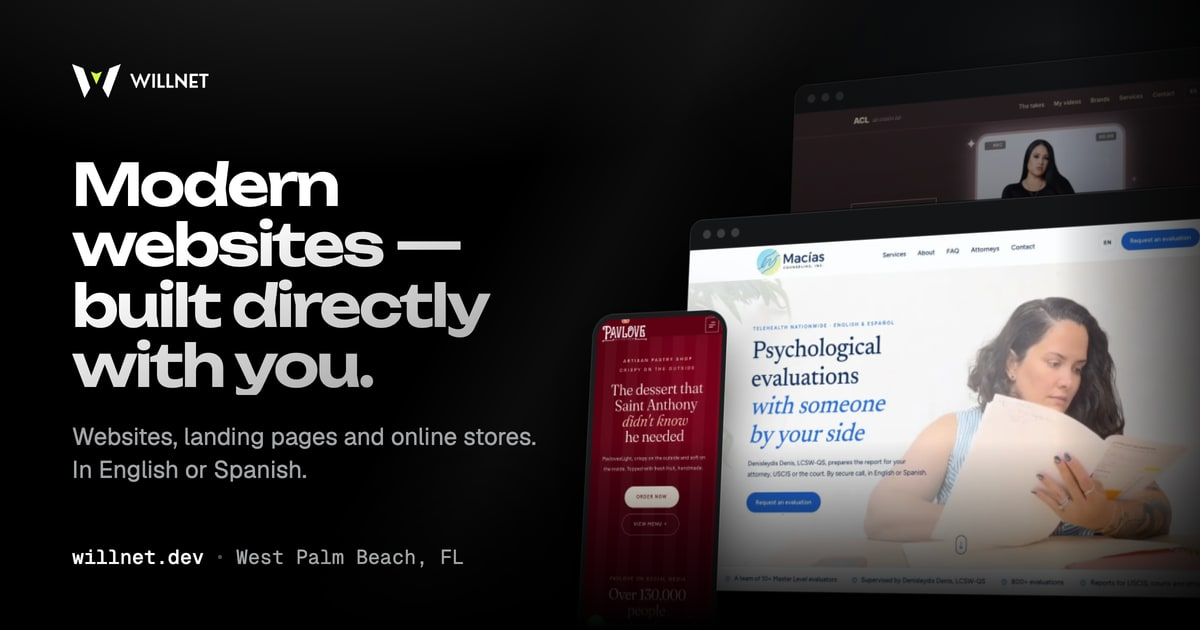
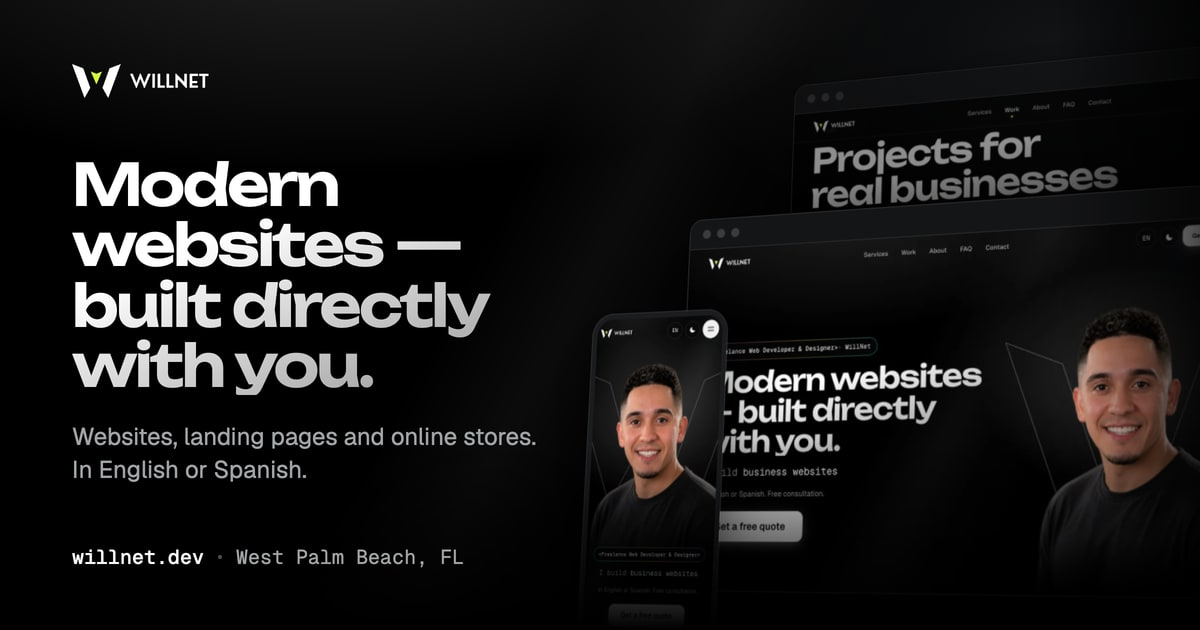
Imagen para compartir: la escena inclinada muestra willnet.dev (elegida por Willder entre 4 propuestas)
Work detrás, el inicio delante y en el teléfono, en EN y ES (capturas de producción en tema oscuro en
scripts/og/capturas/). Texto alternativo y README actualizados.

diff --git a/scripts/og/plantilla.html b/scripts/og/plantilla.html
@@ -1,9 +1,12 @@
 <!doctype html>
 <!--
   Imagen para compartir el enlace (Open Graph, 1200 × 630). No es una captura del hero: es una pieza propia
-  con el estilo Resend de la web (negro, luz desde arriba, título con degradado) y capturas de proyectos reales.
-  Se abre con ?lang=en o ?lang=es. La genera scripts/og-image.mjs → public/og-willnet-en.jpg y -es.jpg
-  (2026-11-18, pedido de Willder: la anterior era una captura vieja del hero con la paleta lima).
+  con el estilo Resend de la web (negro, luz desde arriba, título con degradado) y la propia willnet.dev en la
+  escena inclinada (inicio, Work y el inicio en el teléfono; capturas en scripts/og/capturas/, tomadas de producción
+  en tema oscuro y sin botones flotantes; si la web cambia mucho, se vuelven a sacar).
+  Se abre con ?lang=en o ?lang=es. La genera captura-og.mjs --plantilla (skill sitio-web-willnet) → public/og-willnet-en.jpg y -es.jpg
+  (2026-11-18, pedido de Willder: la anterior era una captura vieja del hero con la paleta lima; eligió esta
+  composición entre 4 propuestas y pidió que la escena mostrara willnet.dev).
 -->
 <html>
   <head>
@@ -107,7 +110,7 @@
         border-radius: 50%;
         background: #4b4e50;
       }
-      /* Los proyectos: un navegador detrás, otro delante y un teléfono, con la misma inclinación */
+      /* willnet.dev: Work detrás, el inicio delante y en el teléfono, con la misma inclinación */
       .stage {
         position: absolute;
         left: 650px;
@@ -221,20 +224,20 @@
           h1: "Modern websites — built directly with you.",
           sub: "Websites, landing pages and online stores. In English or Spanish.",
           place: "West Palm Beach, FL",
-          img: { back: "acl-en", front: "web-macias-en", phone: "pavlove-movil-en" },
+          img: { back: "willnet-work-en", front: "willnet-inicio-en", phone: "willnet-inicio-movil-en" },
         },
         es: {
           h1: "Webs modernas, hechas directamente contigo.",
           sub: "Sitios web, landing pages y tiendas online. En español o inglés.",
           place: "West Palm Beach, FL",
-          img: { back: "acl", front: "web-macias", phone: "pavlove-movil" },
+          img: { back: "willnet-work-es", front: "willnet-inicio-es", phone: "willnet-inicio-movil-es" },
         },
       };
       const lang = new URLSearchParams(location.search).get("lang") === "es" ? "es" : "en";
       const t = T[lang];
       document.documentElement.lang = lang;
       document.querySelectorAll("[data-t]").forEach((el) => (el.textContent = t[el.dataset.t]));
-      document.querySelectorAll("[data-img]").forEach((el) => (el.src = `../../public/img/work/${t.img[el.dataset.img]}.webp`));
+      document.querySelectorAll("[data-img]").forEach((el) => (el.src = `capturas/${t.img[el.dataset.img]}.webp`));
     </script>
   </body>
 </html>

diff --git a/src/i18n/ui.ts b/src/i18n/ui.ts
@@ -59,7 +59,7 @@ export const socials = [
 
 const en = {
   meta: {
-    ogAlt: "WillNet: modern websites, built directly with you. Screens of websites made for clients: Macías Counseling, Pavlove and ACL.",
+    ogAlt: "WillNet: modern websites, built directly with you. Screens of the willnet.dev website on a laptop and a phone.",
     siteDescription:
       "WillNet builds modern websites, landing pages and online stores for small businesses across the US and Latin America. Direct work with the developer, in English or Spanish. Free consultation.",
   },
@@ -346,7 +346,7 @@ const en = {
 
 const es: typeof en = {
   meta: {
-    ogAlt: "WillNet: webs modernas, hechas directamente contigo. Pantallas de webs hechas para clientes: Macías Counseling, Pavlove y ACL.",
+    ogAlt: "WillNet: webs modernas, hechas directamente contigo. Pantallas de la web willnet.dev en computadora y teléfono.",
     siteDescription:
       "WillNet crea páginas web modernas, landing pages y tiendas en línea para negocios en EE. UU. y Latinoamérica. Trato directo con el desarrollador, en inglés o español. Consulta gratis.",
   },

diff --git a/README.md b/README.md
@@ -75,7 +75,7 @@ Revisa los tipos de TypeScript y Astro.
 | Teléfono, correos, WhatsApp, redes | `site` al inicio de `src/i18n/ui.ts`. Correos por contexto: `email` (contact@: Contacto, menú, «Let's work together», Privacidad), `infoEmail` y `supportEmail` (pie; support@ también en Mantenimiento). |
 | Colores, tipografías, botones | `src/styles/global.css` (tokens en `:root` y `[data-theme="light"]`). Los colores del escenario final (bloque «Let's work together» y pie, en gris carbón) están al final del archivo, en `.stage`. |
 | Rutas en español (`/es/servicios`, etc.) | `src/i18n/routes.ts`. |
-| Imagen al compartir el enlace | `public/og-en.jpg` y `public/og-es.jpg` (1200×630, captura del hero). Si cambia el hero, hay que volver a capturarlas. |
+| Imagen al compartir el enlace | `public/og-willnet-en.jpg` y `-es.jpg` (1200×630), hechas con la plantilla `scripts/og/plantilla.html` (no es una captura del hero; la escena inclinada muestra willnet.dev con las capturas de `scripts/og/capturas/`, sacadas de producción en tema oscuro: si la web cambia mucho, se vuelven a sacar). Para cambiarla: editar la plantilla (textos e imágenes por idioma al final) y correr `node ~/.claude/skills/sitio-web-willnet/scripts/captura-og.mjs --plantilla scripts/og/plantilla.html public --nombre og-willnet`. Si el diseño cambia mucho, usar otro `--nombre` y cambiarlo en `src/layouts/Base.astro`: las redes guardan la imagen por URL. |
 | Ícono del navegador | `public/favicon.svg`; los PNG (`favicon-32x32.png`, `apple-touch-icon.png`, `icon-512.png`) se generan a partir de él con sharp. |
 | Redirecciones (páginas que se quitaron) | `public/_redirects`: una por línea, `origen destino 301`, con y sin barra final. Cloudflare la aplica al publicar; `npm run dev` no (para probarla: `npm run build` y `npx wrangler dev`). |
 | Política de privacidad | `src/views/PrivacyView.astro`. |
